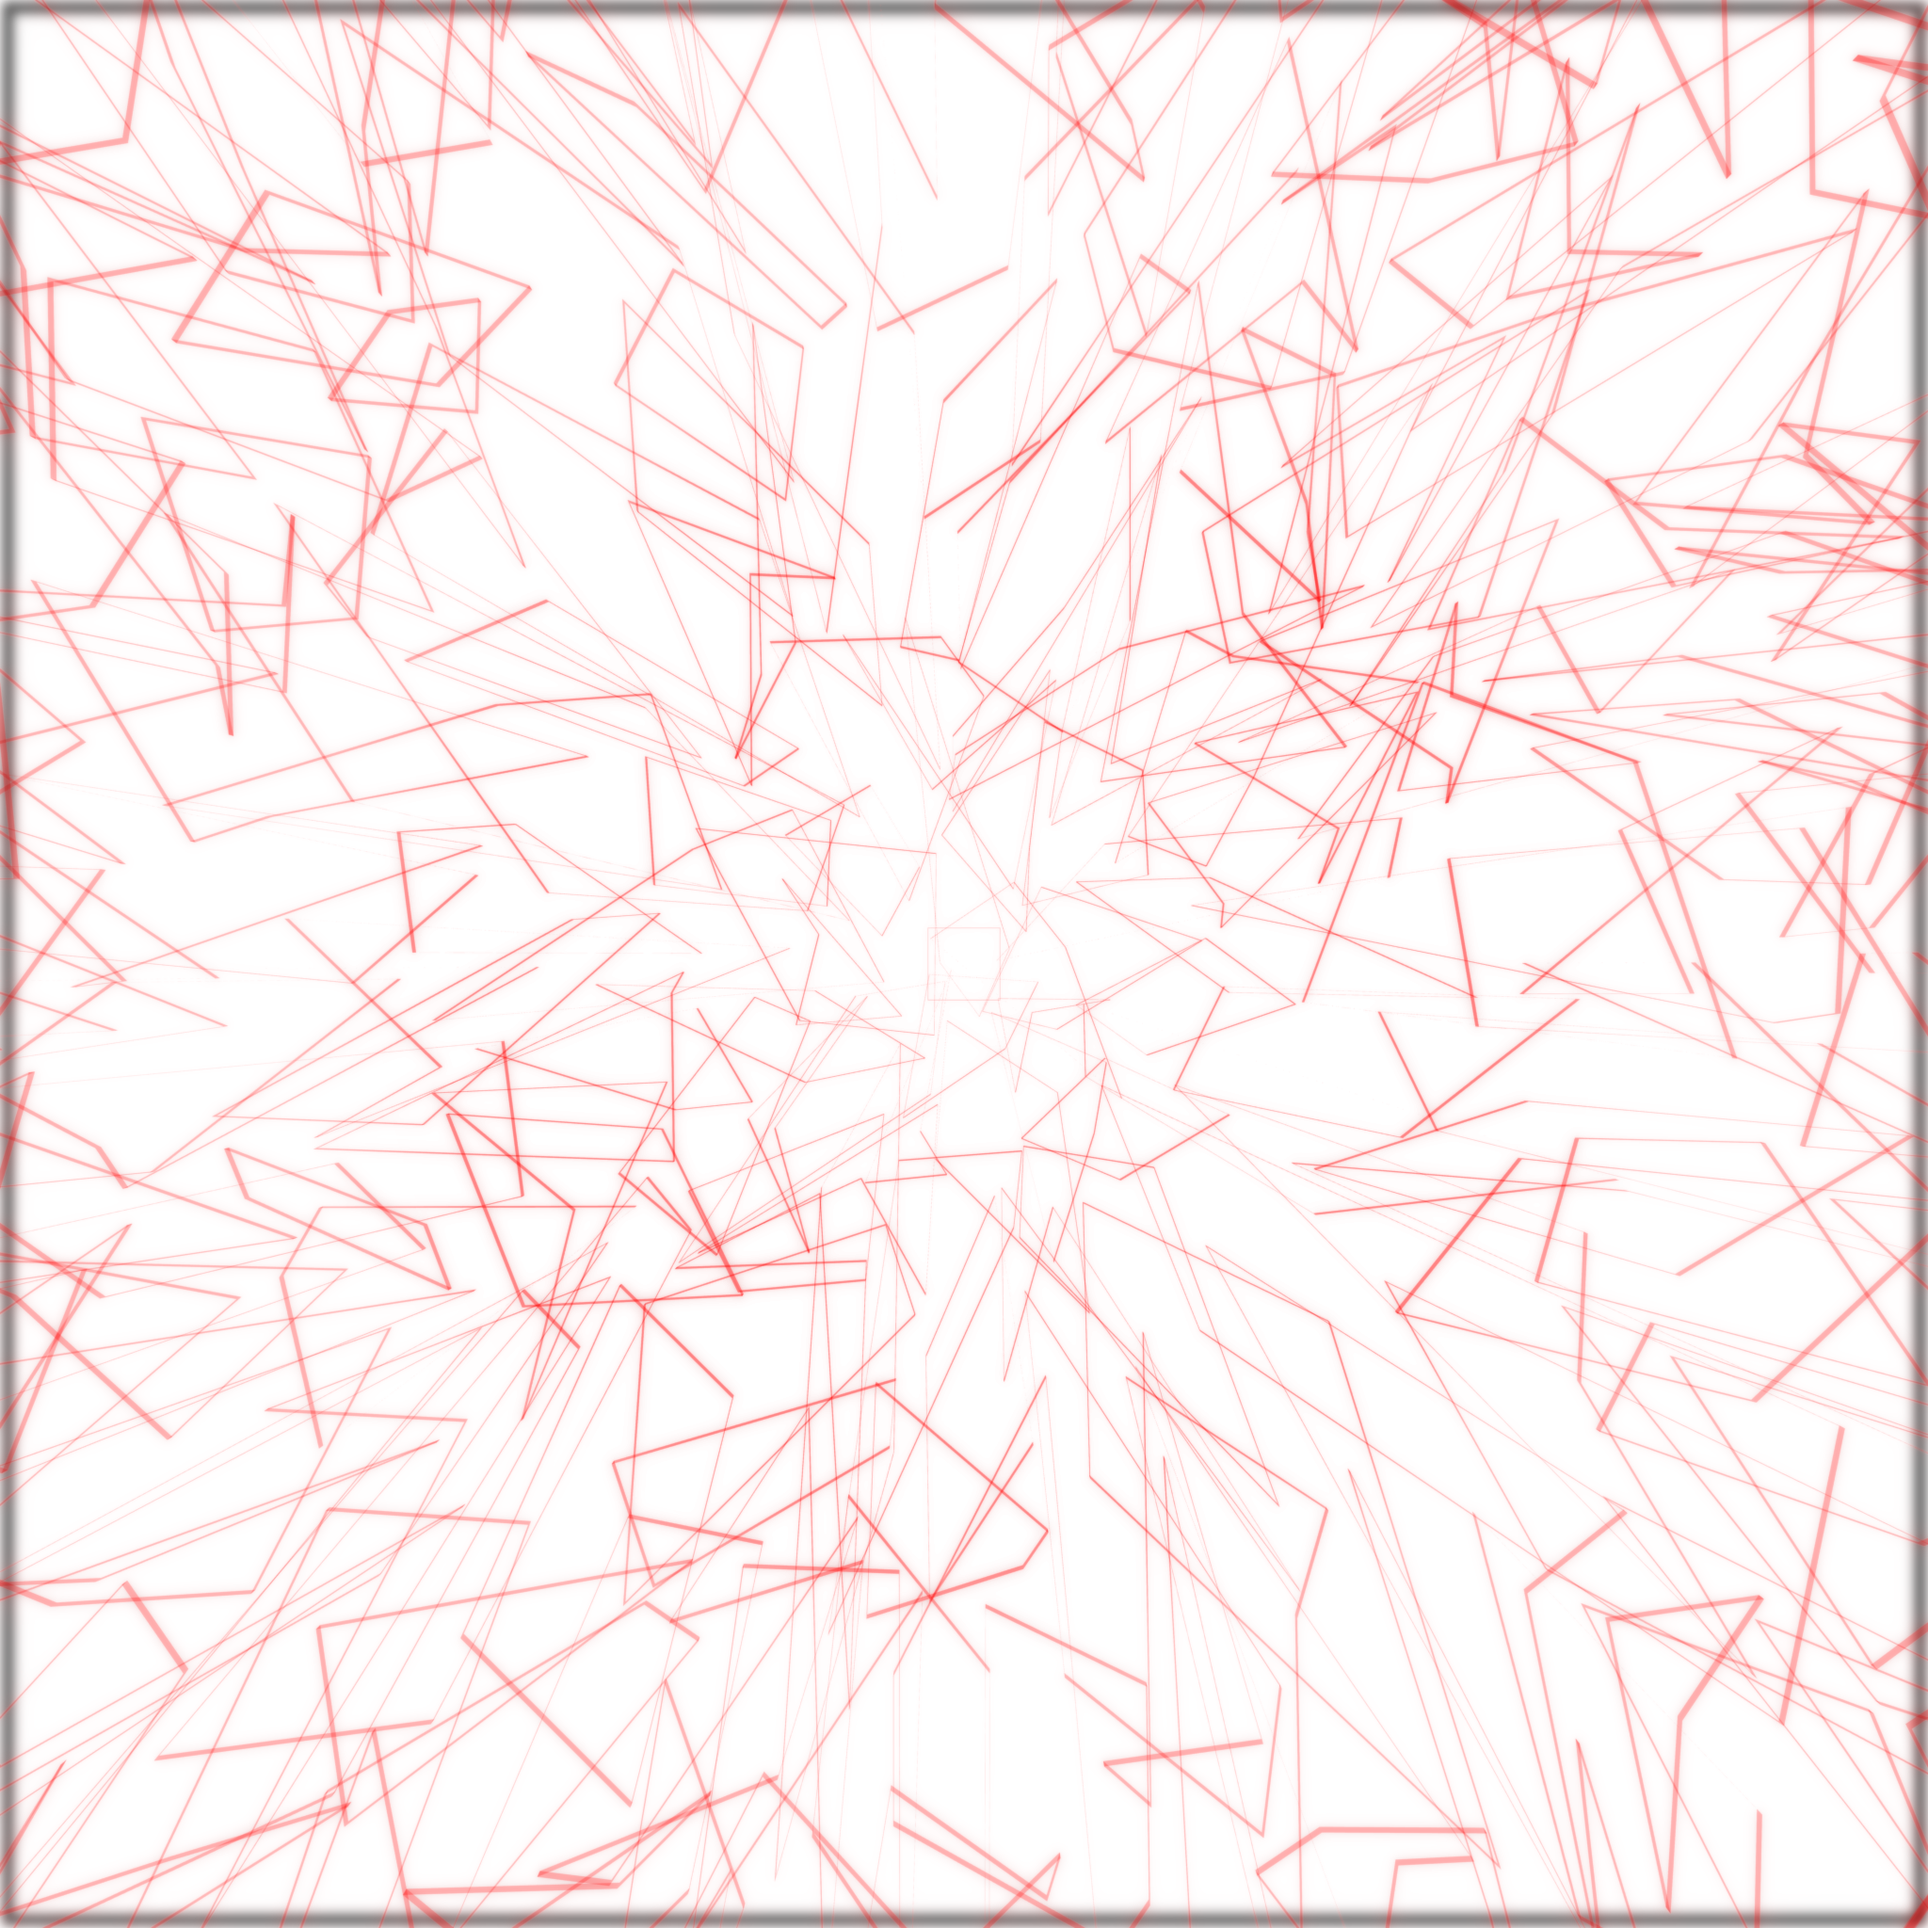
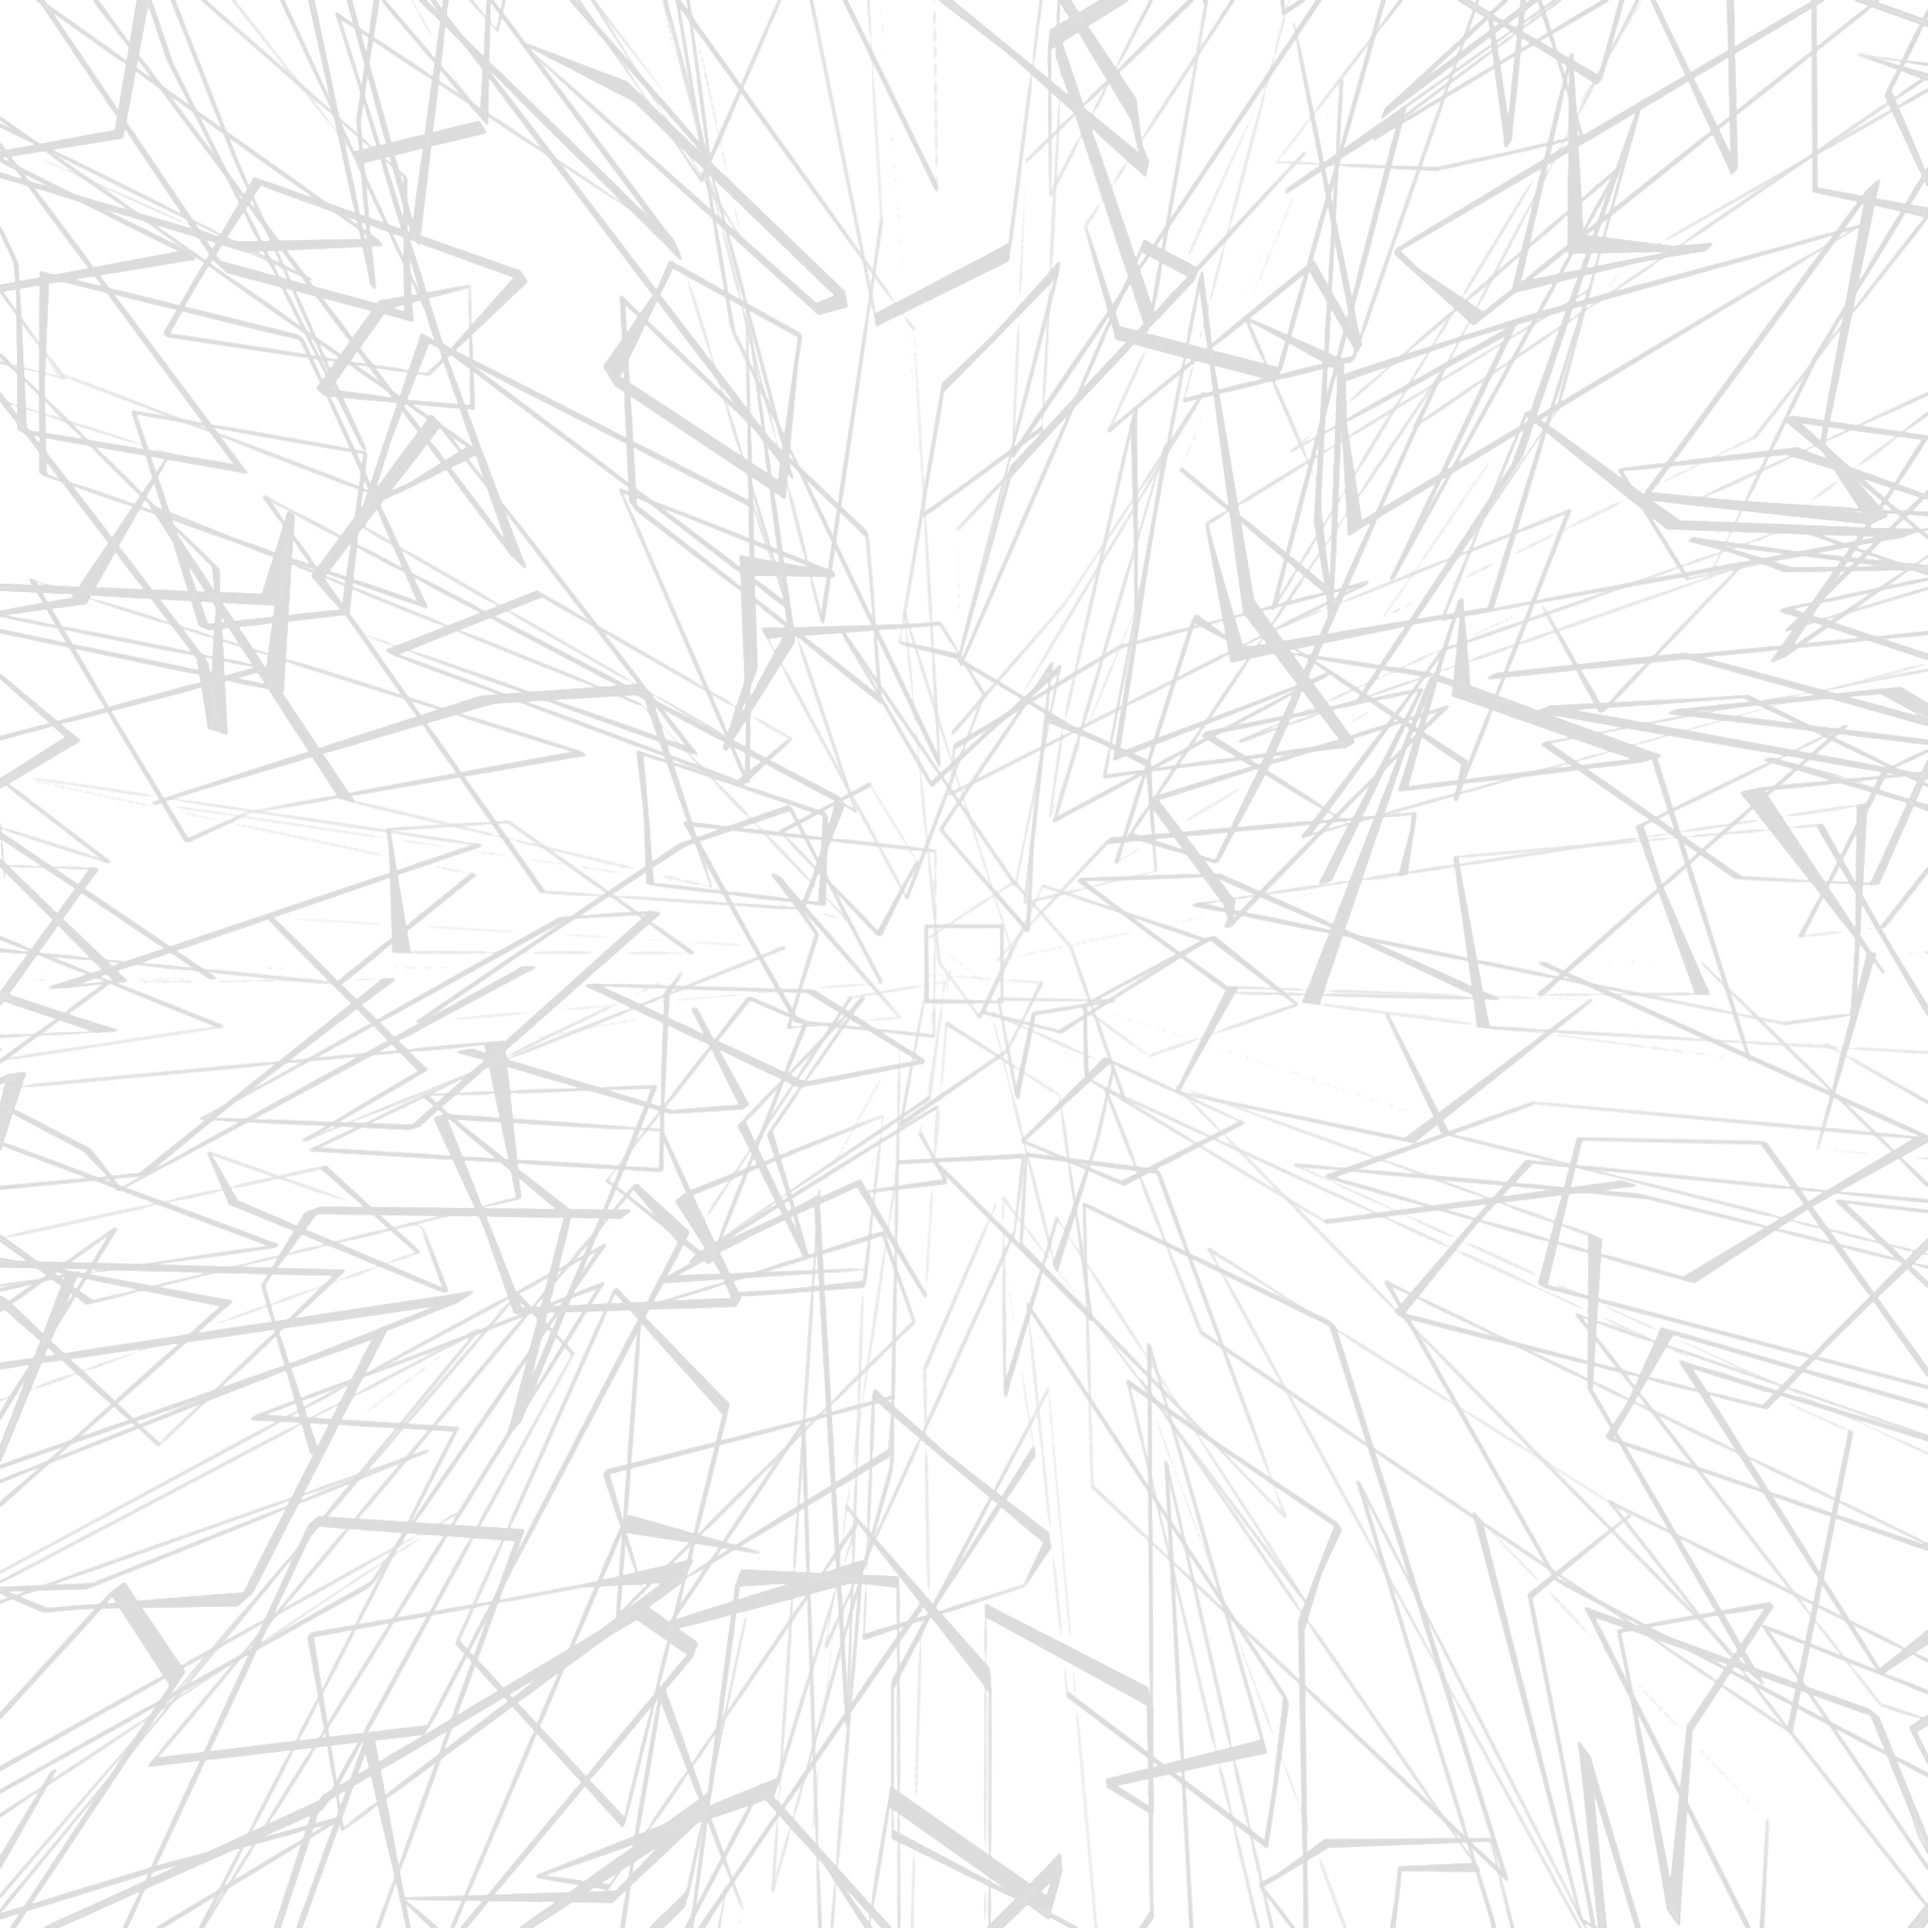
Added map shader

Changed region(s): [[0.0, 0.0, 1.0, 1.0], [0.4688, 0.0625, 0.5, 0.0938]]

diff --git a/core/src/com/tint/specular/map/Map.java b/core/src/com/tint/specular/map/Map.java
@@ -3,29 +3,35 @@ package com.tint.specular.map;
 import com.badlogic.gdx.Gdx;
 import com.badlogic.gdx.graphics.Color;
 import com.badlogic.gdx.graphics.GL20;
+import com.badlogic.gdx.graphics.Pixmap.Format;
 import com.badlogic.gdx.graphics.Texture;
 import com.badlogic.gdx.graphics.g2d.SpriteBatch;
+import com.badlogic.gdx.graphics.glutils.FrameBuffer;
+import com.badlogic.gdx.graphics.glutils.ShaderProgram;
 import com.badlogic.gdx.graphics.glutils.ShapeRenderer;
 import com.badlogic.gdx.graphics.glutils.ShapeRenderer.ShapeType;
+import com.badlogic.gdx.math.Matrix4;
 import com.tint.specular.Specular;
 import com.tint.specular.effects.TrailPart;
-import com.tint.specular.game.Camera;
 import com.tint.specular.game.GameState;
 import com.tint.specular.game.entities.Bullet;
-
-/**
- * 
- * @author Daniel Riissanen
- *
- */
+import com.tint.specular.game.entities.enemies.Enemy;
+import com.tint.specular.game.entities.enemies.EnemyCircler;
+import com.tint.specular.game.entities.enemies.EnemyDasher;
+import com.tint.specular.game.entities.enemies.EnemyShielder;
+import com.tint.specular.game.entities.enemies.EnemyStriver;
+import com.tint.specular.game.entities.enemies.EnemyWanderer;
 
 public class Map {
 	private static ShapeRenderer shapeRenderer = new ShapeRenderer();
 	
 	private int width, height;
-	private Texture texture, shockLight, parallax;
+	private Texture texture, shockLight, mask, parallax;
+	private FrameBuffer fbo;
+	private ShaderProgram shader;
 	private String name;
 	private GameState gs;
+	private Matrix4 matrix = new Matrix4();
 	
 	
 	public Map(Texture texture, Texture shockLight, Texture parallax, String name, int width, int height, GameState gs) {
@@ -36,6 +42,36 @@ public class Map {
 		this.width = width;
 		this.height = height;
 		this.gs = gs;
+		
+		matrix.setToOrtho2D(0, 0, texture.getWidth(), texture.getHeight());
+		
+		mask = new Texture(Gdx.files.internal("graphics/game/Mask.png"));
+		
+		fbo = new FrameBuffer(Format.RGBA4444, shockLight.getWidth(), shockLight.getHeight(), false);
+		
+		//Required for custom variables in the shader
+		ShaderProgram.pedantic = false;
+		
+		shader = new ShaderProgram(VERT, FRAG);
+		
+		if (!shader.isCompiled()) {
+			System.err.println(shader.getLog());
+			Gdx.app.exit();
+		}
+		if (shader.getLog().length()!=0)
+			System.out.println(shader.getLog());
+		
+		//Set the "u_mask" variable to one
+		shader.begin();
+		shader.setUniformi("u_mask", 1);
+		shader.end();
+		
+		//Bind the mask to index 1
+		fbo.getColorBufferTexture().bind(1);
+		
+		//Reset bound texture
+		Gdx.gl.glActiveTexture(GL20.GL_TEXTURE0);
+		
 	}
 	
 	public Map() {
@@ -43,9 +79,46 @@ public class Map {
 	}
 	
 	public void render(SpriteBatch batch) {
-		batch.draw(texture, 0, 0, width, height);
+		batch.draw(texture, 0, 0);
 		batch.end();
 		
+		
+		//Render masks to the framebuffer
+		fbo.begin();
+		Gdx.gl.glClearColor(0f, 0f, 0f, 0f);
+		Gdx.gl.glClear(GL20.GL_COLOR_BUFFER_BIT);
+		batch.setProjectionMatrix(matrix);
+		
+		batch.setBlendFunction(GL20.GL_SRC_ALPHA, GL20.GL_ONE);
+		batch.begin();
+		batch.setColor(Color.RED);
+		for(TrailPart tp : gs.getPlayer().getTrail())
+			batch.draw(mask, tp.getX() - tp.getSize() / 2, fbo.getHeight() - tp.getY() - tp.getSize() / 2, tp.getSize(), tp.getSize());
+		
+		for(Bullet b : gs.getBullets()) {
+			batch.draw(mask, b.getX() - 80, fbo.getHeight() - b.getY() - 80, 160, 160);
+		}
+		
+		for(Enemy e : gs.getEnemies()) {
+			if(e instanceof EnemyWanderer)
+				batch.setColor(1, 0.9f, 0.5f, 1);
+			else if(e instanceof EnemyCircler)
+				batch.setColor(0.3f, 1f, 1f, 1);
+			if(e instanceof EnemyStriver)
+				batch.setColor(1, 0, 1, 1);
+			if(e instanceof EnemyShielder)
+				batch.setColor(1, 1, 1, 1);
+			if(e instanceof EnemyDasher)
+				batch.setColor(0, 1, 0, 1);
+			batch.draw(mask, e.getX() - 80, fbo.getHeight() - e.getY() - 80, 160, 160);
+		}
+		
+		
+		batch.setColor(Color.WHITE);
+		batch.end();
+		fbo.end();
+		
+		//Enable depth masking to improve performance
 		Gdx.gl.glDepthFunc(GL20.GL_LESS);
 		Gdx.gl.glEnable(GL20.GL_DEPTH_TEST);
 		Gdx.gl.glDepthMask(true);
@@ -53,21 +126,32 @@ public class Map {
 		
 		shapeRenderer.setProjectionMatrix(Specular.camera.combined);
 		shapeRenderer.begin(ShapeType.Filled);
-		for(Bullet b : gs.getBullets()) {
-			shapeRenderer.circle(b.getX(), b.getY(), 60);
-		}
 		
 		for(TrailPart tp : gs.getPlayer().getTrail())
 			shapeRenderer.circle(tp.getX(), tp.getY(), tp.getSize());
 		
+		for(Bullet b : gs.getBullets()) {
+			shapeRenderer.circle(b.getX(), b.getY(), 160);
+		}
+		
+		for(Enemy e : gs.getEnemies()) {
+			shapeRenderer.circle(e.getX(), e.getY(), 160);
+		}
 		shapeRenderer.end();
 		
+		
+		//Render using depth masking and shader
 		Gdx.gl.glColorMask(true, true, true, true);
 		Gdx.gl.glEnable(GL20.GL_DEPTH_TEST);
 		Gdx.gl.glDepthFunc(GL20.GL_EQUAL);
 		
+		batch.setBlendFunction(GL20.GL_SRC_ALPHA, GL20.GL_ONE_MINUS_SRC_ALPHA);
+		batch.setProjectionMatrix(Specular.camera.combined);
 		batch.begin();
-		batch.draw(shockLight, 0, 0, width, height);
+		batch.setShader(shader);
+		batch.draw(shockLight, 0, 0);
+		batch.setShader(null);
+		
 		batch.flush();
 		
 		Gdx.gl.glDisable(GL20.GL_DEPTH_TEST);
@@ -78,4 +162,36 @@ public class Map {
 	public Texture getTexture() { return texture; }
 	public String getName() { return name; }
 	public void setTexture(Texture texture) { this.texture = texture; }
-	public Texture getParallax() { return parallax;	}}
+	public Texture getParallax() { return parallax;	}
+	
+	
+	private final String VERT =  
+			"attribute vec4 "+ShaderProgram.POSITION_ATTRIBUTE+";\n" +
+			"attribute vec4 "+ShaderProgram.COLOR_ATTRIBUTE+";\n" +
+			"attribute vec2 "+ShaderProgram.TEXCOORD_ATTRIBUTE+"0;\n" +
+			
+			"uniform mat4 u_projTrans;\n" + 
+			" \n" + 
+			"varying vec2 vTexCoord;\n" +
+			
+			"void main() {\n" +  
+			"	vTexCoord = "+ShaderProgram.TEXCOORD_ATTRIBUTE+"0;\n" +
+			"	gl_Position =  u_projTrans * " + ShaderProgram.POSITION_ATTRIBUTE + ";\n" +
+			"}";
+	
+	private final String FRAG = 
+			  "#ifdef GL_ES\n"
+			+ "#define LOWP lowp\n"
+			+ "precision mediump float;\n"
+			+ "#else\n"
+			+ "#define LOWP \n"
+			+ "#endif\n" +
+			"varying vec2 vTexCoord;\n" + 
+			"uniform sampler2D u_mask;\n" +	
+			"uniform sampler2D u_texture;\n" +	
+			"void main(void) {\n" + 
+			"	vec4 texColor = texture2D(u_texture, vTexCoord);\n" + 
+			"	vec4 maskColor = texture2D(u_mask, vTexCoord);\n" + 
+			"	gl_FragColor = texColor * maskColor;\n" + 
+			"}";
+}

diff --git a/core/src/com/tint/specular/game/entities/Player.java b/core/src/com/tint/specular/game/entities/Player.java
@@ -83,8 +83,8 @@ public class Player implements Entity {
 		sensitivity = Specular.prefs.getFloat("Sensitivity");
 		maxSpeedAreaSquared = (Specular.camera.viewportWidth / 8 * sensitivity) * (Specular.camera.viewportWidth / 8 * sensitivity);
 		
-		for(int i = 0; i < 30; i++) {
-			playerTrail.add(new TrailPart(centerx, centery, (int) (i / 30f * 60)));
+		for(int i = 0; i < TrailPart.AMOUNT; i++) {
+			playerTrail.add(new TrailPart(centerx, centery, (int) (i / (float) TrailPart.AMOUNT * TrailPart.SIZE)));
 		}
 	}
 

diff --git a/core/src/com/tint/specular/effects/TrailPart.java b/core/src/com/tint/specular/effects/TrailPart.java
@@ -3,6 +3,7 @@ package com.tint.specular.effects;
 
 public class TrailPart {
 		
+	public static final int AMOUNT = 50, SIZE = 128;
 	private float x;
 	private float y;
 	private float size;
@@ -14,7 +15,7 @@ public class TrailPart {
 	}
 	
 	public boolean update() {
-		size -= 2;
+		size -= 3;
 		return size < 1;
 	}
 	
@@ -29,7 +30,7 @@ public class TrailPart {
 	public void reset(float x, float y) {
 		this.x = x;
 		this.y = y;
-		size = 60;
+		size = SIZE;
 	}
 
 	public float getSize() {

diff --git a/core/src/com/tint/specular/game/GameState.java b/core/src/com/tint/specular/game/GameState.java
@@ -380,8 +380,6 @@ public class GameState extends State {
 				ent.render(game.batch);
 		}
 		
-		game.batch.setBlendFunction(GL20.GL_SRC_ALPHA, GL20.GL_ONE);
-		
 		for(Particle p : particles)
 			p.render(game.batch);
 		
@@ -390,7 +388,6 @@ public class GameState extends State {
 				ent.render(game.batch);
 		}
 		
-		game.batch.setBlendFunction(GL20.GL_SRC_ALPHA, GL20.GL_ONE_MINUS_SRC_ALPHA);
 		
 		if(!gameMode.isGameOver())
 			player.render(game.batch);
